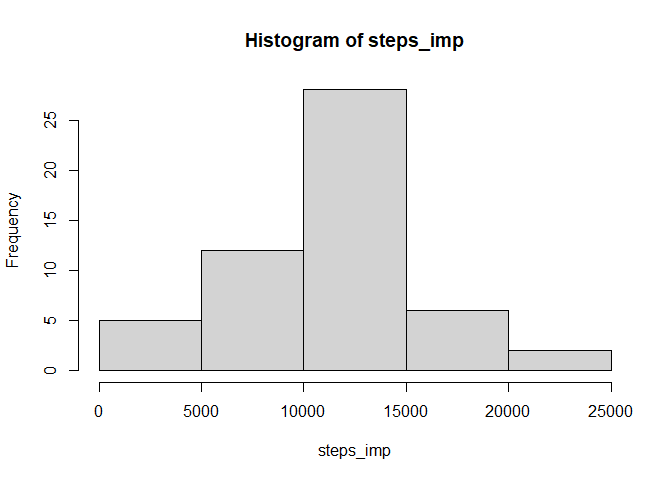
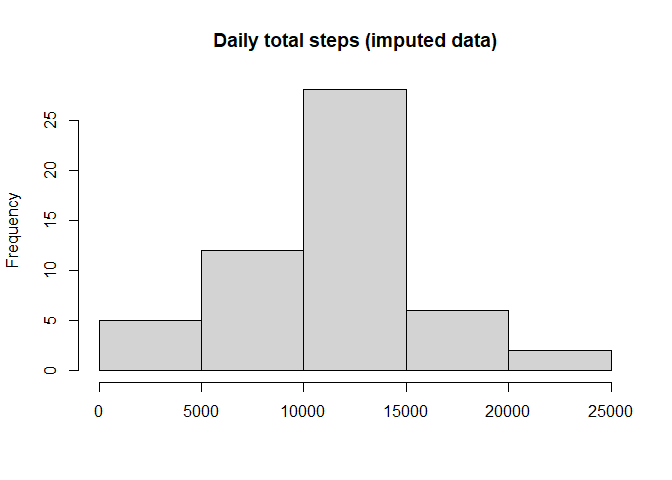
smaller adations

Changed region(s): [[0.3125, 0.0625, 0.75, 0.125], [0.4688, 0.9062, 0.5938, 0.9688]]

diff --git a/PA1_template.html b/PA1_template.html
@@ -394,8 +394,8 @@ plot(pattern$interval,
 <h2>Imputing missing values</h2>
 <pre class="r"><code>na_rows &lt;- sum(!complete.cases(data))</code></pre>
 <p>The dataset contains 2304 rows with missing values.</p>
-<p>The missing values will be replaced with the average number of daily
-steps for a given interval.</p>
+<p>The missing values will be replaced with the average number of steps
+of a given day.</p>
 <pre class="r"><code>data_imp &lt;- tapply(data$steps, 
                    as.factor(data$date), 
                    \(x) replace(x, is.na(x), mean(x, na.rm = TRUE)),
@@ -403,12 +403,12 @@ steps for a given interval.</p>
 
 steps_imp &lt;- sapply(data_imp, sum)
 
-hist(steps_imp)</code></pre>
[1 lines of base64/hex data omitted]
+hist(steps_imp, main = &quot;Daily total steps (imputed data)&quot;, xlab = &quot;&quot;)</code></pre>
[1 lines of base64/hex data omitted]
 <pre class="r"><code>mean_steps_imp &lt;- mean(steps_imp, na.rm = TRUE)
 median_steps_imp &lt;- median(steps_imp, na.rm = TRUE)</code></pre>
 <p>The new mean is 1.076619^{4} and the new median is 1.0765^{4} steps.
-Compared to the original data the are almost identical now, which means
+Compared to the original data both are almost identical now, which means
 the the resulting distribution is more evenly spread.</p>
 </div>
 <div id="are-there-differences-in-activity-patterns-between-weekdays-and-weekends" class="section level2">

diff --git a/PA1_template.md b/PA1_template.md
@@ -70,7 +70,7 @@ na_rows <- sum(!complete.cases(data))
 ```
 The dataset contains 2304 rows with missing values.
 
-The missing values will be replaced with the average number of daily steps for a given interval.
+The missing values will be replaced with the average number of steps of a given day.
 
 
 ```r
@@ -81,7 +81,7 @@ data_imp <- tapply(data$steps,
 
 steps_imp <- sapply(data_imp, sum)
 
-hist(steps_imp)
+hist(steps_imp, main = "Daily total steps (imputed data)", xlab = "")
 ```
 
 ![](PA1_template_files/figure-html/unnamed-chunk-5-1.png)<!-- -->
@@ -90,7 +90,7 @@ hist(steps_imp)
 mean_steps_imp <- mean(steps_imp, na.rm = TRUE)
 median_steps_imp <- median(steps_imp, na.rm = TRUE)
 ```
-The new mean is 1.076619\times 10^{4} and the new median is 1.0765\times 10^{4} steps. Compared to the original data the are almost identical now, which means the the resulting distribution is more evenly spread.
+The new mean is 1.076619\times 10^{4} and the new median is 1.0765\times 10^{4} steps. Compared to the original data both are almost identical now, which means the the resulting distribution is more evenly spread.
 
 ## Are there differences in activity patterns between weekdays and weekends?
 
